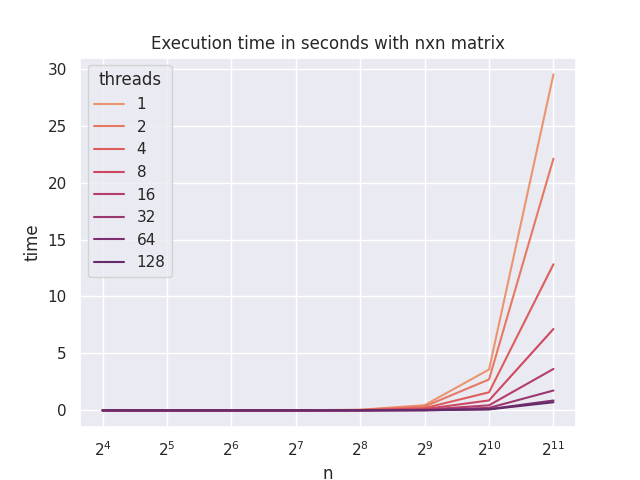
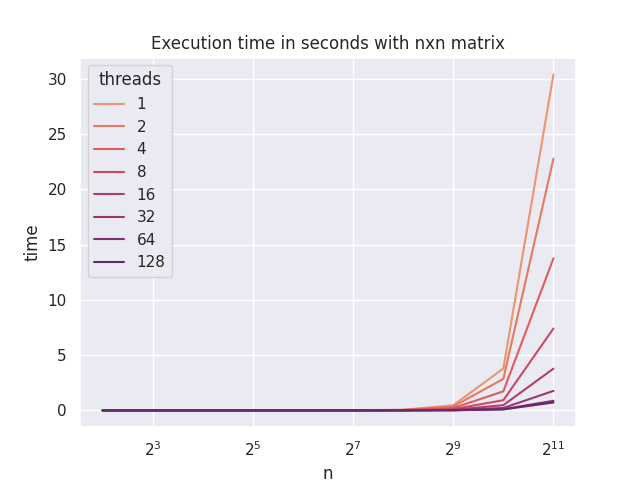
final results

diff --git a/create_graphs.py b/create_graphs.py
@@ -6,13 +6,29 @@ import dataframe_image as dfi
 
 if __name__ == '__main__':
     data = pd.read_csv('data.csv', sep='\t')
+    data = data[data['n'] > 2]
+    small_data = data[data['n'] < 2 ** 6]
+    big_data = data[data['n'] > 2 ** 7]
 
     palette = sns.color_palette("flare", 8)
     sns.set()
+
     ax = sns.lineplot(data=data, x='n', y='time', hue='threads', palette=palette)
     ax.set_title('Execution time in seconds with nxn matrix')
     ax.set_xscale('log', basex=2)
     plt.savefig('lineplot.png')
+    plt.show()
+
+    ax = sns.lineplot(data=small_data, x='n', y='time', hue='threads', palette=palette)
+    ax.set_title('Execution time in seconds with nxn matrix on smaller n')
+    ax.set_xscale('log', basex=2)
+    plt.savefig('lineplot_small.png')
+    plt.show()
+
+    ax = sns.lineplot(data=big_data, x='n', y='time', hue='threads', palette=palette)
+    ax.set_title('Execution time in seconds with nxn matrix on larger n')
+    ax.set_xscale('log', basex=2)
+    plt.savefig('lineplot_big.png')
     plt.show()
 
     data = data.pivot("n", "threads", "time")
